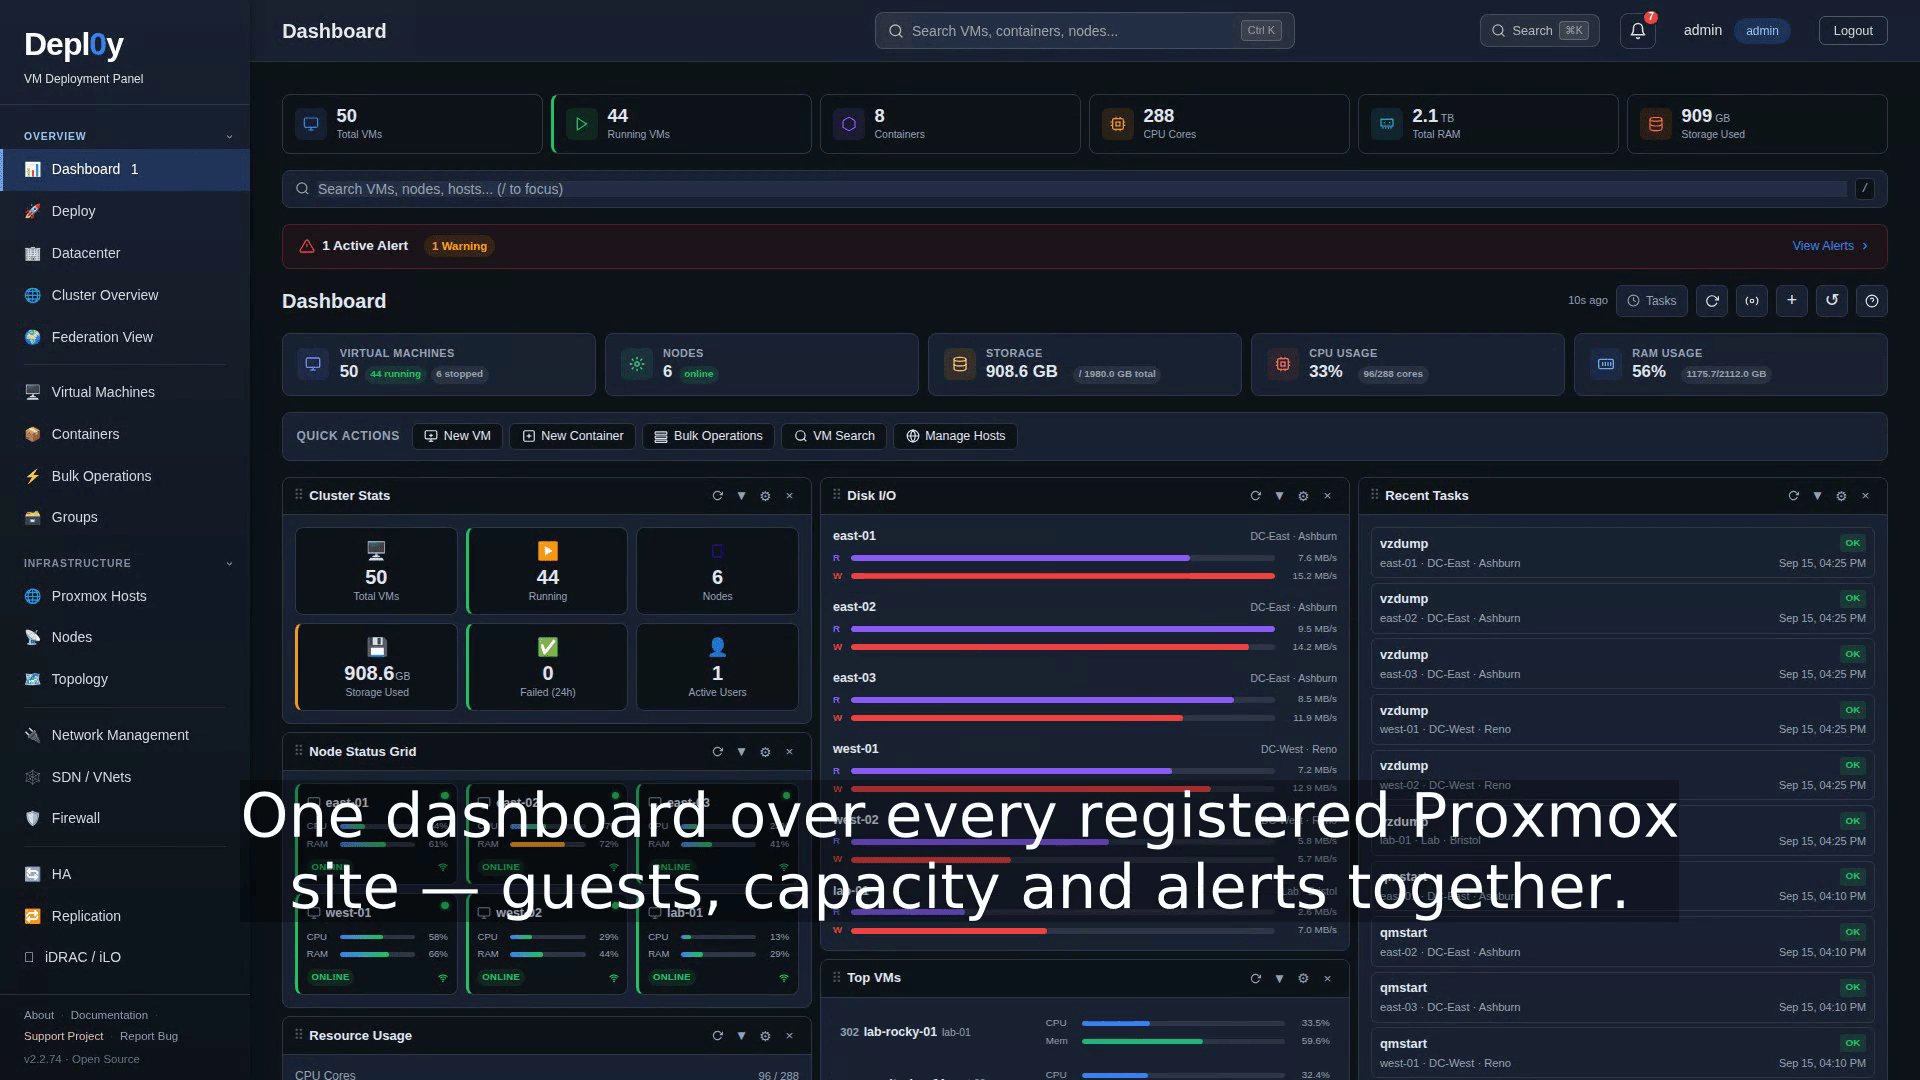
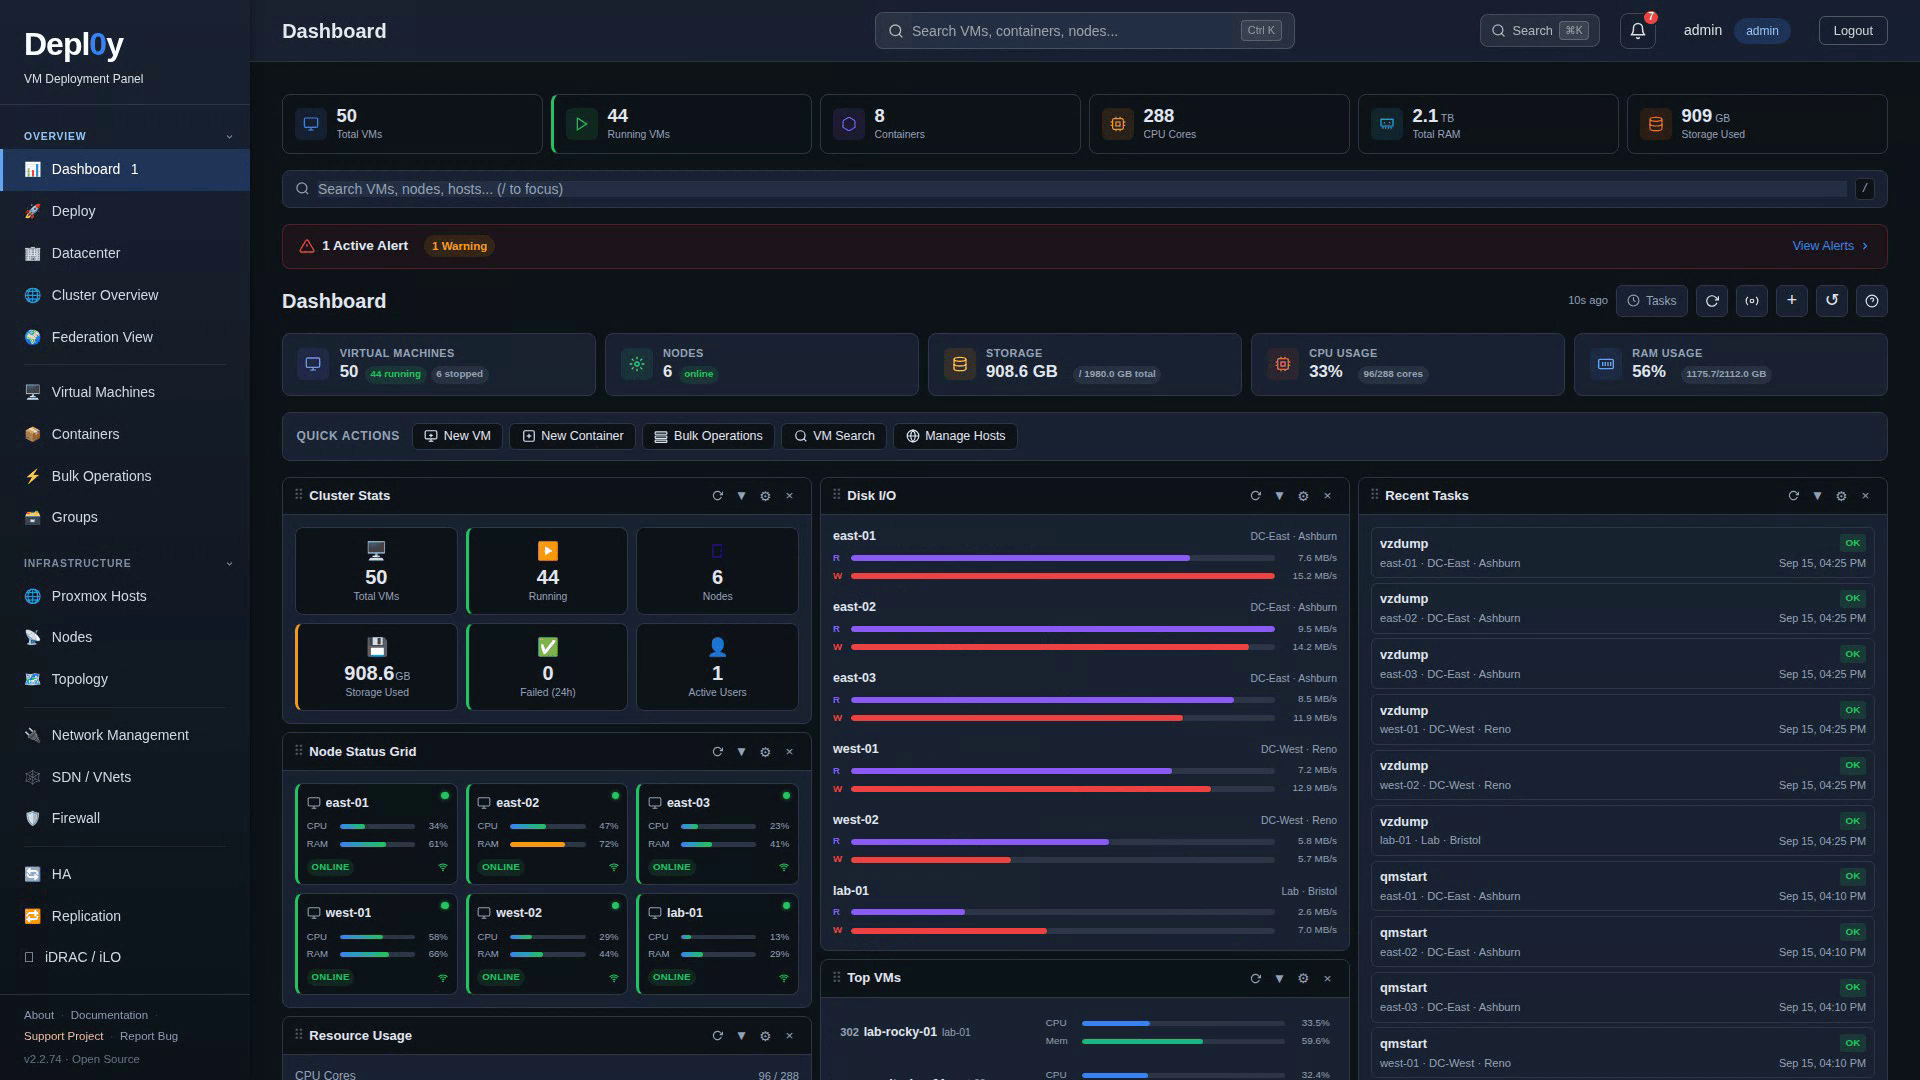
docs: use an uncaptioned frame for the video poster
The poster was extracted from the finished MP4, so it carried a burned-in
caption frozen across the thumbnail — which reads as a defect wherever the
poster appears on its own, in the README and as the release asset.

Replaced with the same moment (dashboard + 4 s) taken from the raw recording,
before captions are burned in. build_video.py now sources the poster from the
raw WebM using the unshifted beat timeline, so a rebuild stays clean.

The release asset on v2.2.74 was replaced to match.

Changed region(s): [[0.125, 0.7028, 0.875, 0.8556], [0.2188, 0.2139, 0.25, 0.2444]]

diff --git a/scripts/screenshots/build_video.py b/scripts/screenshots/build_video.py
@@ -161,9 +161,14 @@ for p in parts + [listfile]:
     os.remove(p)
 
 # ── poster ────────────────────────────────────────────────────────────────
-poster_at = by_label.get("dashboard", 12) + 4
-run(["ffmpeg", "-y", "-loglevel", "error", "-ss", f"{poster_at:.2f}", "-i", full,
-     "-frames:v", "1", os.path.join(OUT, "depl0y-poster.png")])
+# Pull the poster from the RAW recording, not the finished MP4: the latter has
+# captions burned in, and a caption frozen across a thumbnail looks like a
+# defect wherever the poster is shown on its own.
+raw_by_label = {b["label"]: b["t"] for b in beats}
+poster_at = raw_by_label.get("dashboard", 12) + 4
+run(["ffmpeg", "-y", "-loglevel", "error", "-ss", f"{poster_at:.2f}", "-i", webm,
+     "-frames:v", "1", "-vf", "scale=1920:1080:flags=lanczos",
+     os.path.join(OUT, "depl0y-poster.png")])
 
 # ── narration script ──────────────────────────────────────────────────────
 with open(os.path.join(OUT, "narration-script.md"), "w") as f:
